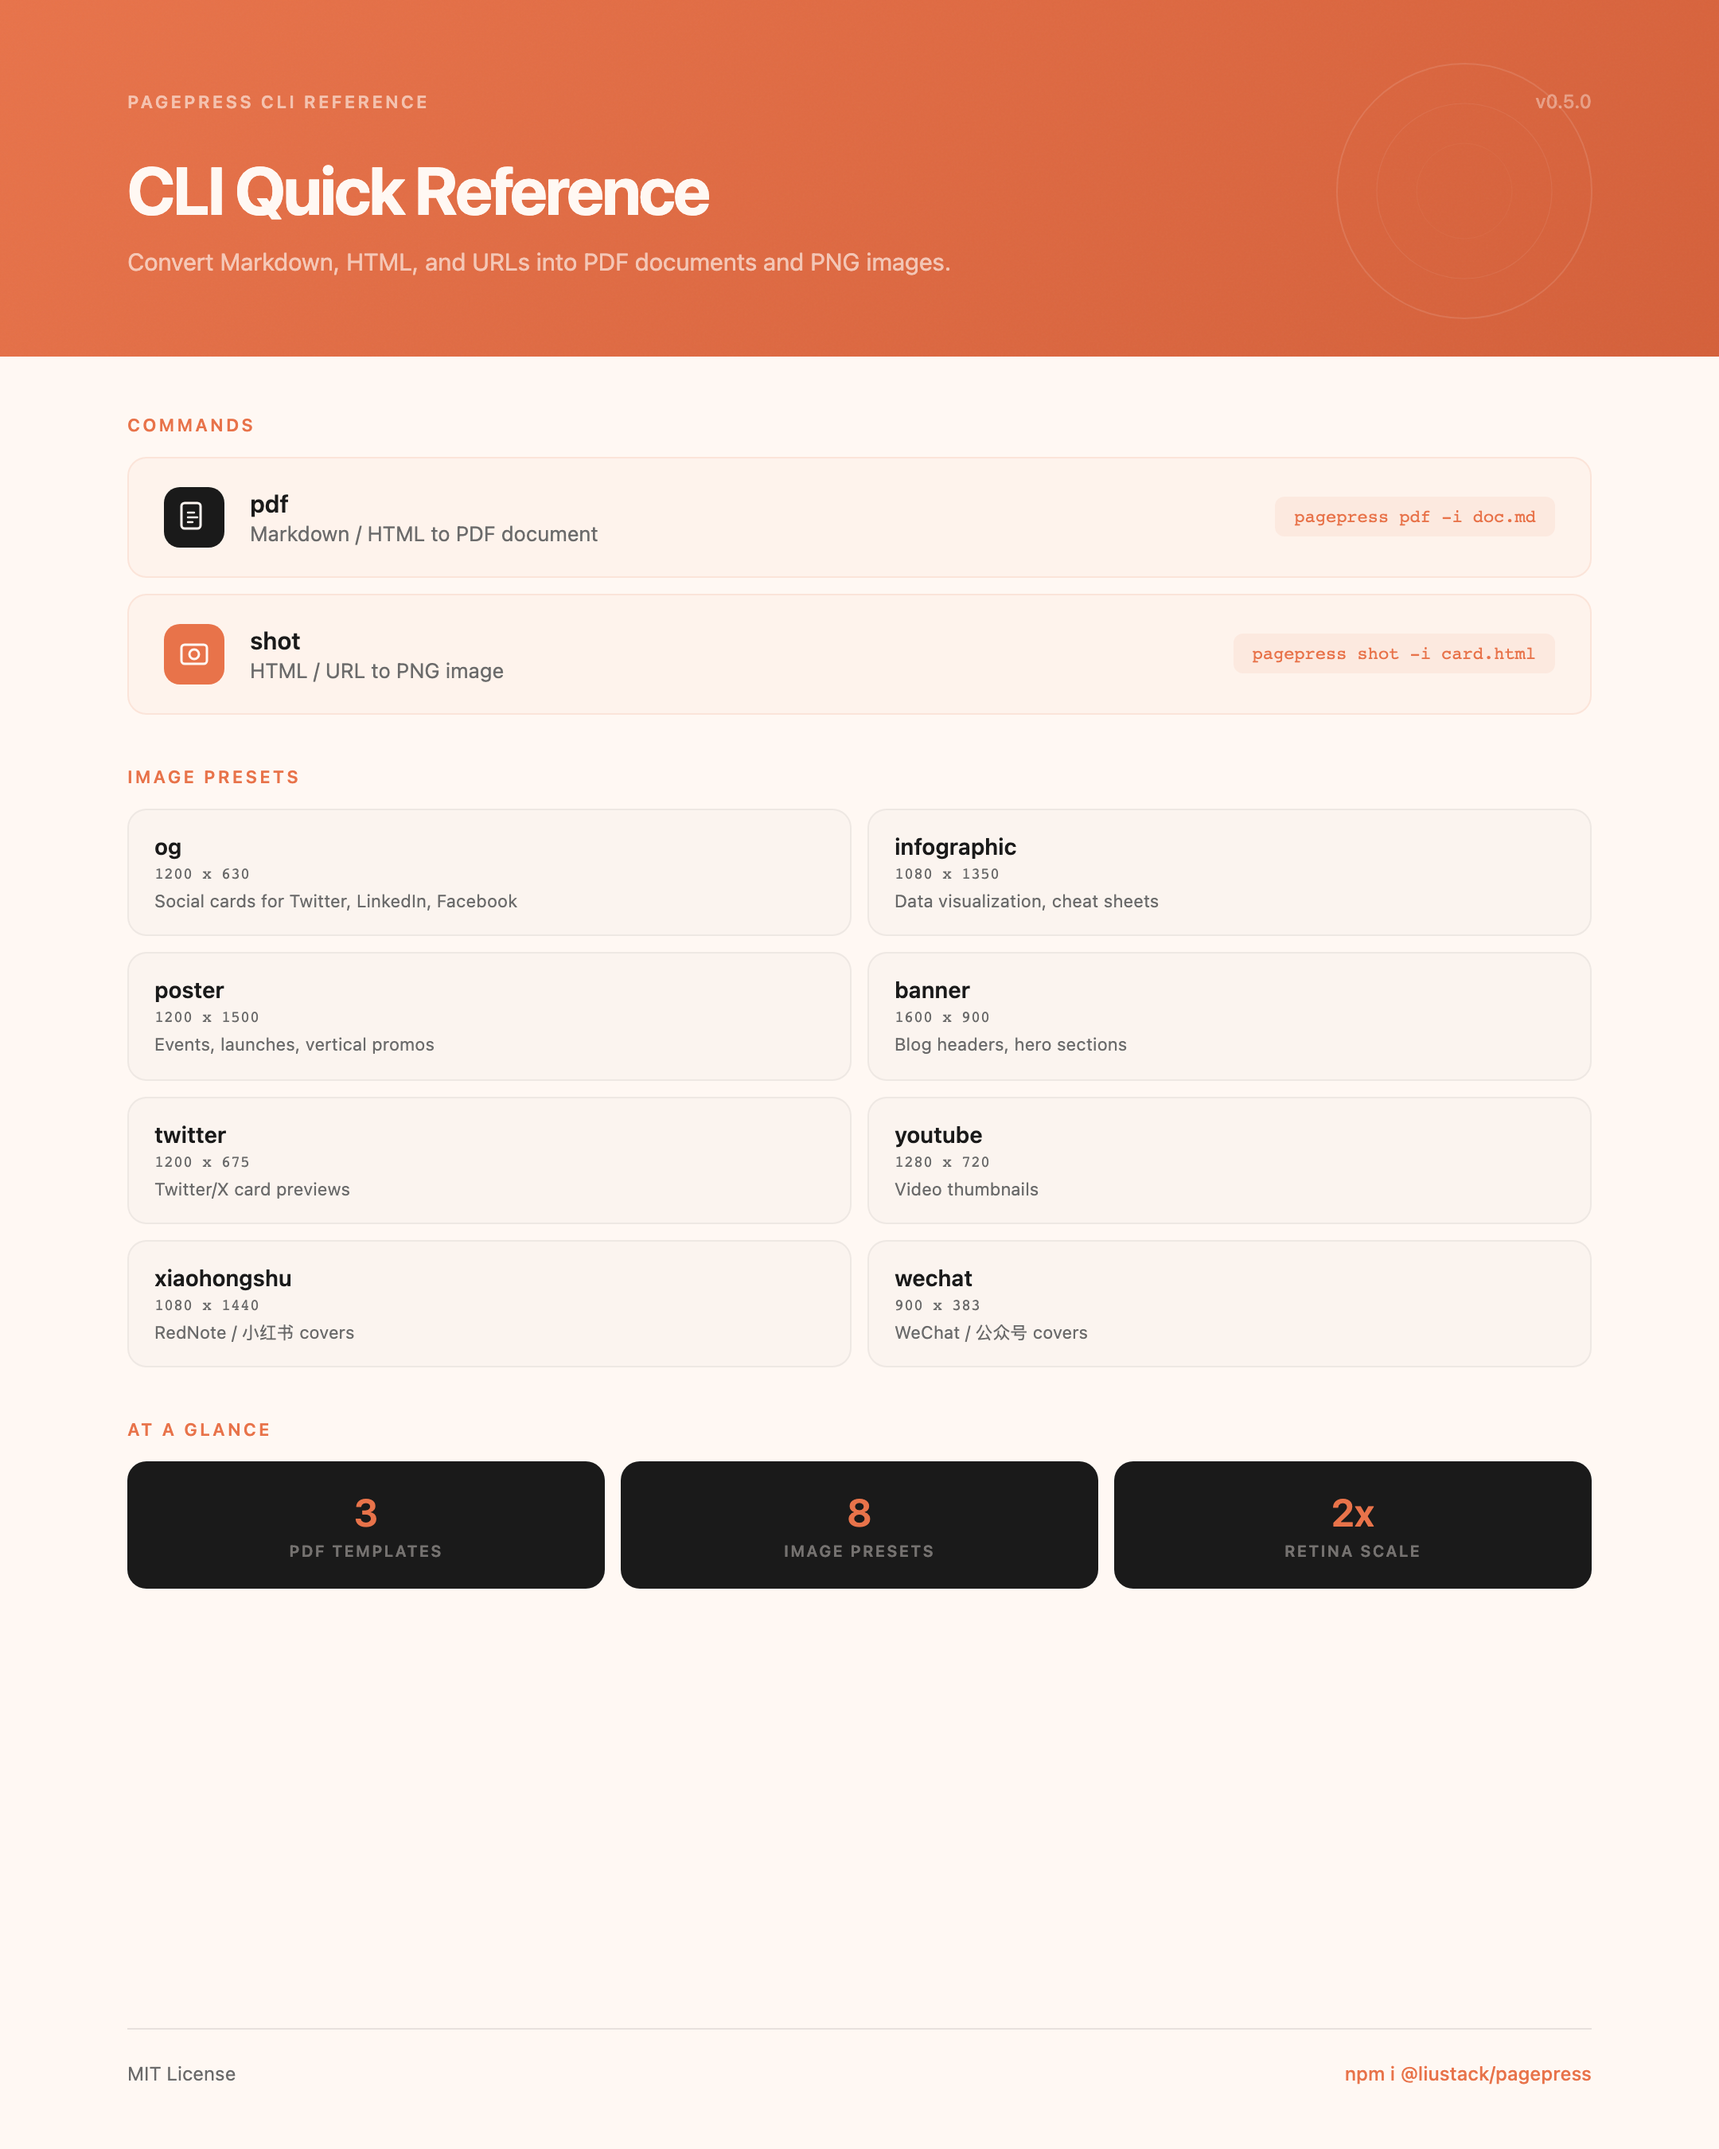
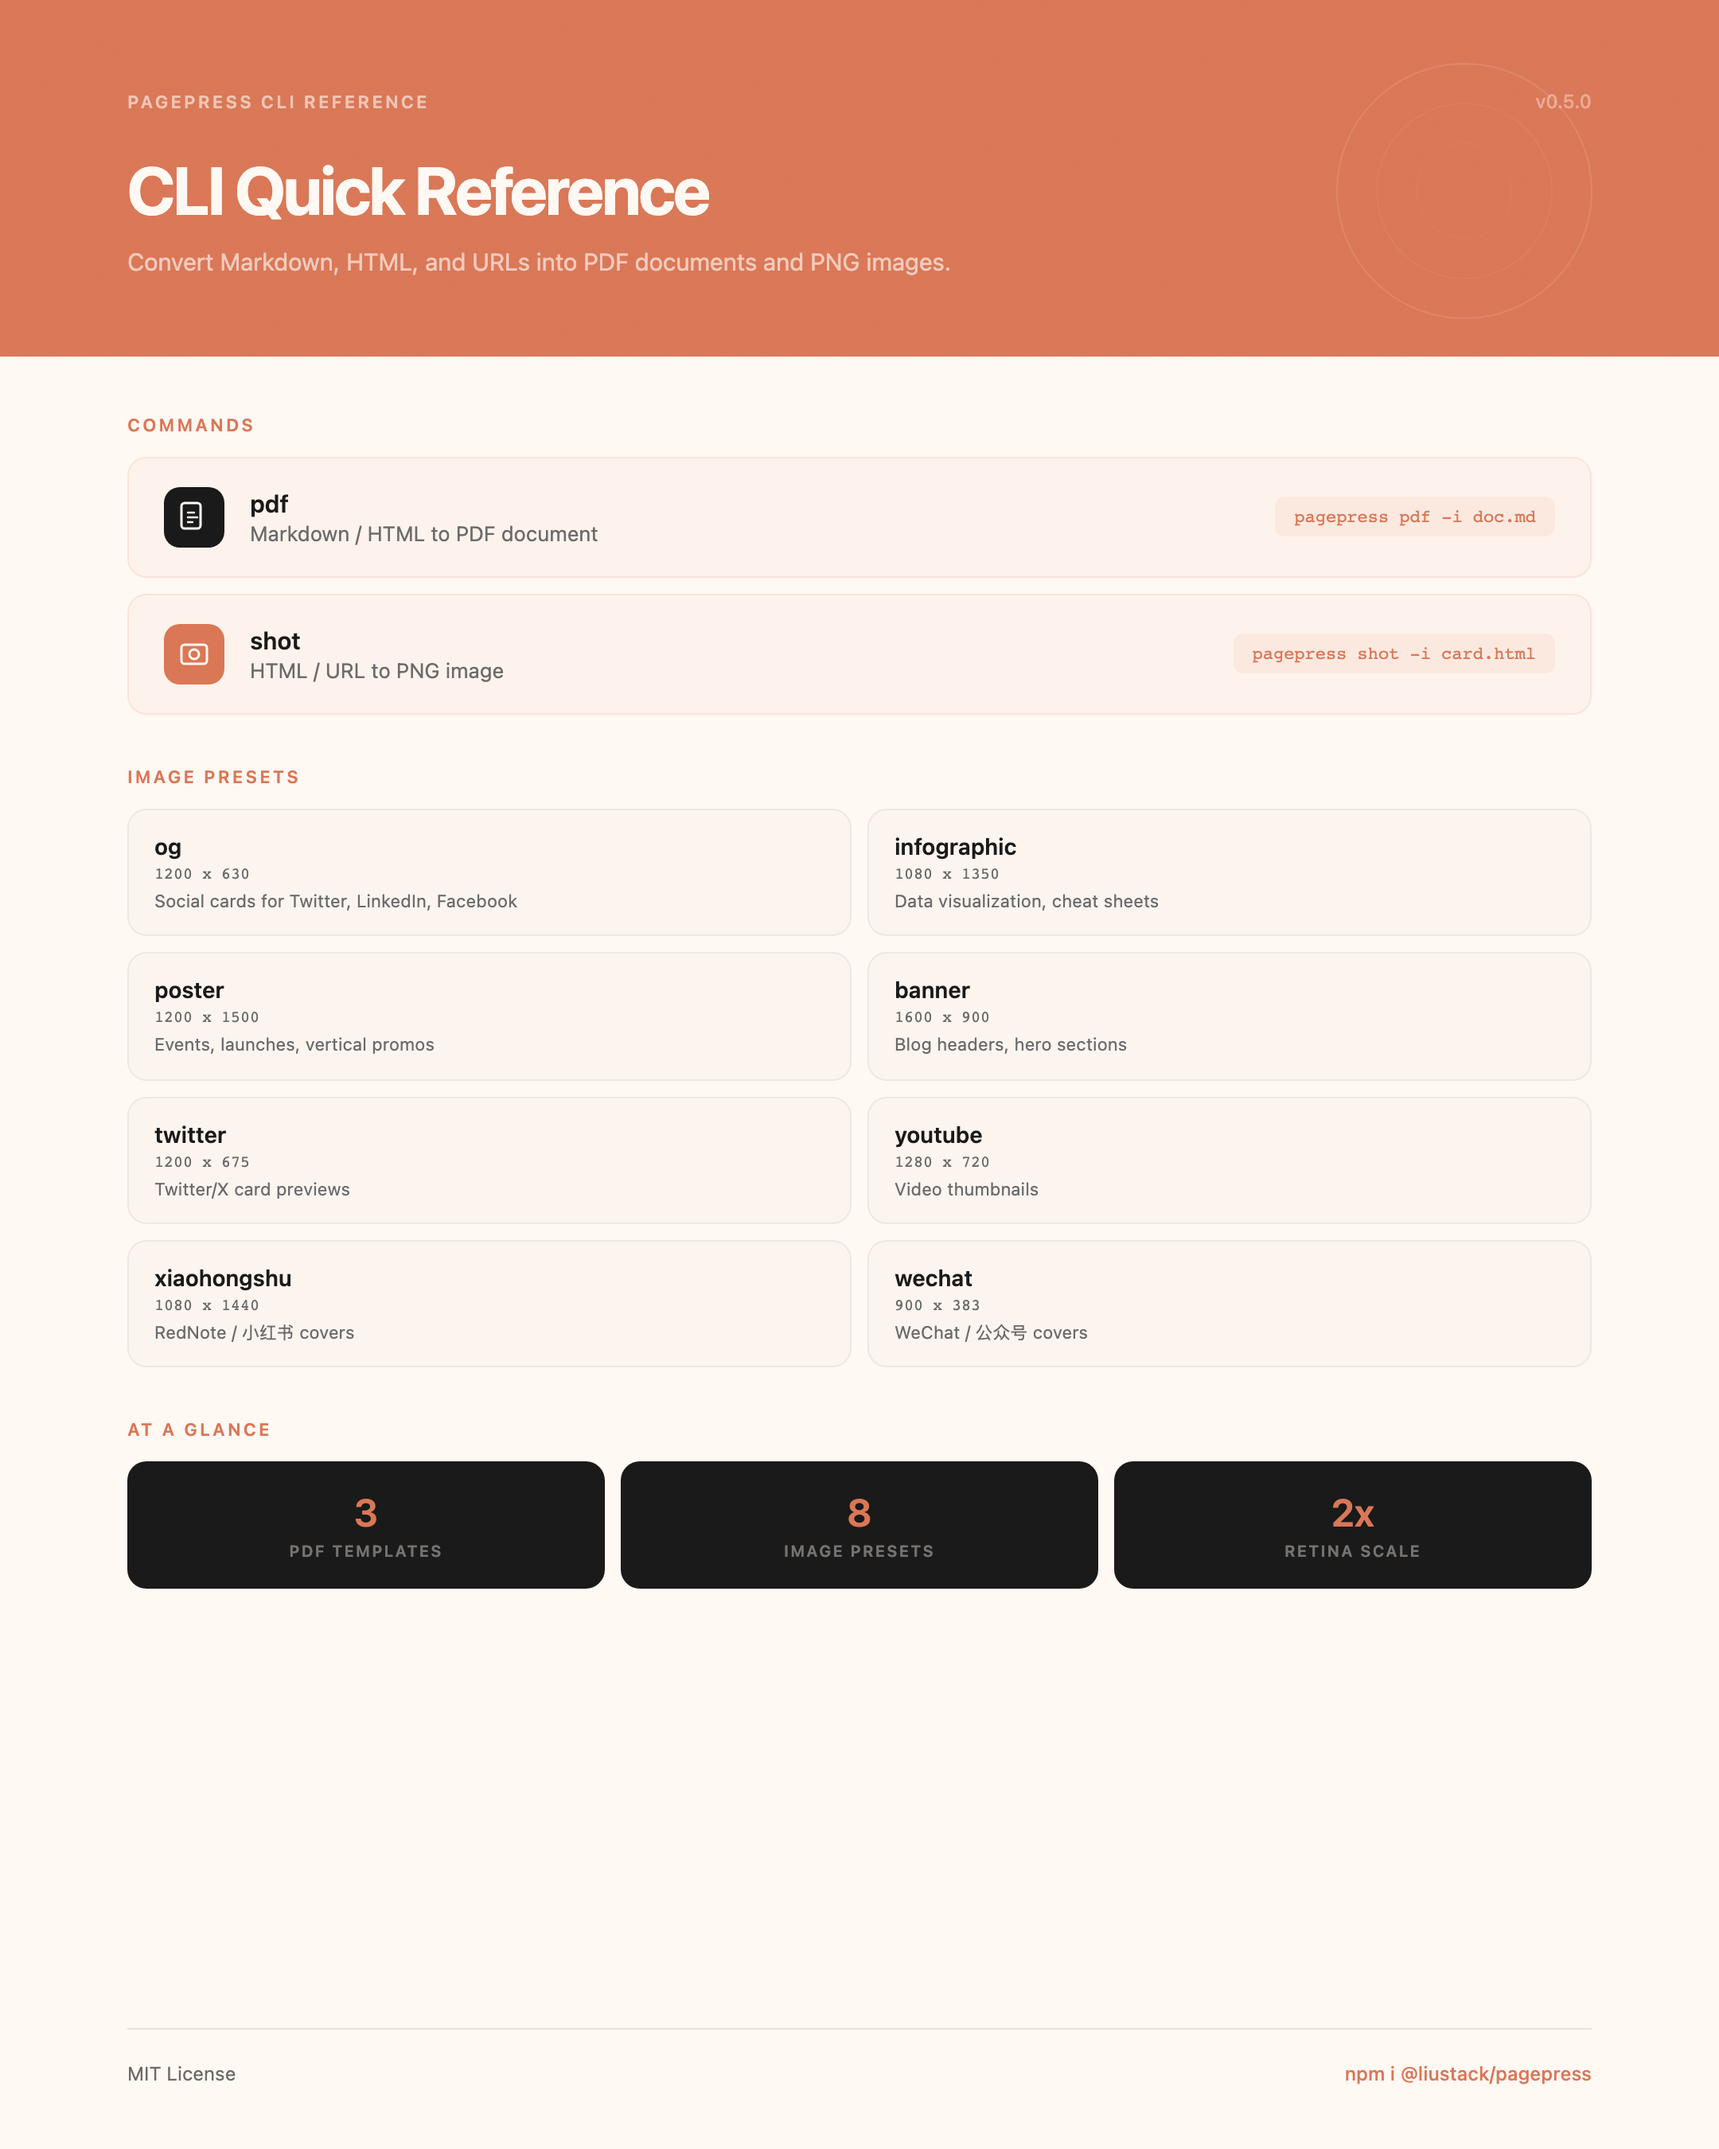
fix(examples): use Claude official terracotta #DA7756, remove gradient

Changed region(s): [[0.7444, 0.0, 1.0, 0.1867]]

diff --git a/examples/shot-infographic.html b/examples/shot-infographic.html
@@ -5,7 +5,7 @@
 <meta name="viewport" content="width=1080, height=1350">
 <style>
 /* Claude Warm: warm cream + terracotta accent, clean and friendly */
-/* Palette: #FFF8F3 dominant / #E8734A accent / #1A1A1A text / #6B6B6B secondary text */
+/* Palette: #FFF8F3 dominant / #DA7756 accent (Claude terracotta) / #1A1A1A text / #6B6B6B secondary */
 /* F-pattern, high info density, Gestalt proximity grouping */
 *{margin:0;padding:0;box-sizing:border-box}
 #container{
@@ -18,7 +18,7 @@
 
 /* hero banner — terracotta gradient */
 .banner{
-  background:linear-gradient(135deg,#E8734A 0%,#D4603A 100%);
+  background:#DA7756;
   padding:56px 80px 48px;
   position:relative;overflow:hidden;
 }
@@ -61,14 +61,14 @@
 .section-label{
   font-size:11px;font-weight:600;
   letter-spacing:1.5px;text-transform:uppercase;
-  color:#E8734A;margin-bottom:14px;
+  color:#DA7756;margin-bottom:14px;
 }
 
 /* command cards */
 .commands{display:flex;flex-direction:column;gap:10px;margin-bottom:32px}
 .cmd{
-  background:rgba(232,115,74,.04);
-  border:1px solid rgba(232,115,74,.12);
+  background:rgba(218,119,86,.04);
+  border:1px solid rgba(218,119,86,.12);
   border-radius:12px;padding:18px 22px;
   display:flex;align-items:center;gap:16px;
 }
@@ -78,14 +78,14 @@
   flex-shrink:0;
 }
 .cmd-dot.pdf{background:#1A1A1A}
-.cmd-dot.shot{background:#E8734A}
+.cmd-dot.shot{background:#DA7756}
 .cmd-name{font-size:15px;font-weight:600;margin-bottom:2px}
 .cmd-desc{font-size:13px;color:#6B6B6B}
 .cmd-code{
   margin-left:auto;
   font-family:'SF Mono',ui-monospace,monospace;
-  font-size:11px;color:#E8734A;
-  background:rgba(232,115,74,.08);
+  font-size:11px;color:#DA7756;
+  background:rgba(218,119,86,.08);
   padding:6px 12px;border-radius:6px;white-space:nowrap;
 }
 
@@ -110,7 +110,7 @@
   background:#1A1A1A;color:#FFF8F3;
   border-radius:12px;padding:18px;text-align:center;
 }
-.stat-val{font-size:24px;font-weight:600;margin-bottom:4px;color:#E8734A}
+.stat-val{font-size:24px;font-weight:600;margin-bottom:4px;color:#DA7756}
 .stat-label{
   font-size:10px;font-weight:600;
   letter-spacing:1px;text-transform:uppercase;
@@ -123,7 +123,7 @@
   display:flex;justify-content:space-between;align-items:center;
 }
 .footer-text{font-size:12px;color:#6B6B6B}
-.footer-link{font-size:12px;color:#E8734A;font-weight:500}
+.footer-link{font-size:12px;color:#DA7756;font-weight:500}
 </style>
 </head>
 <body>
